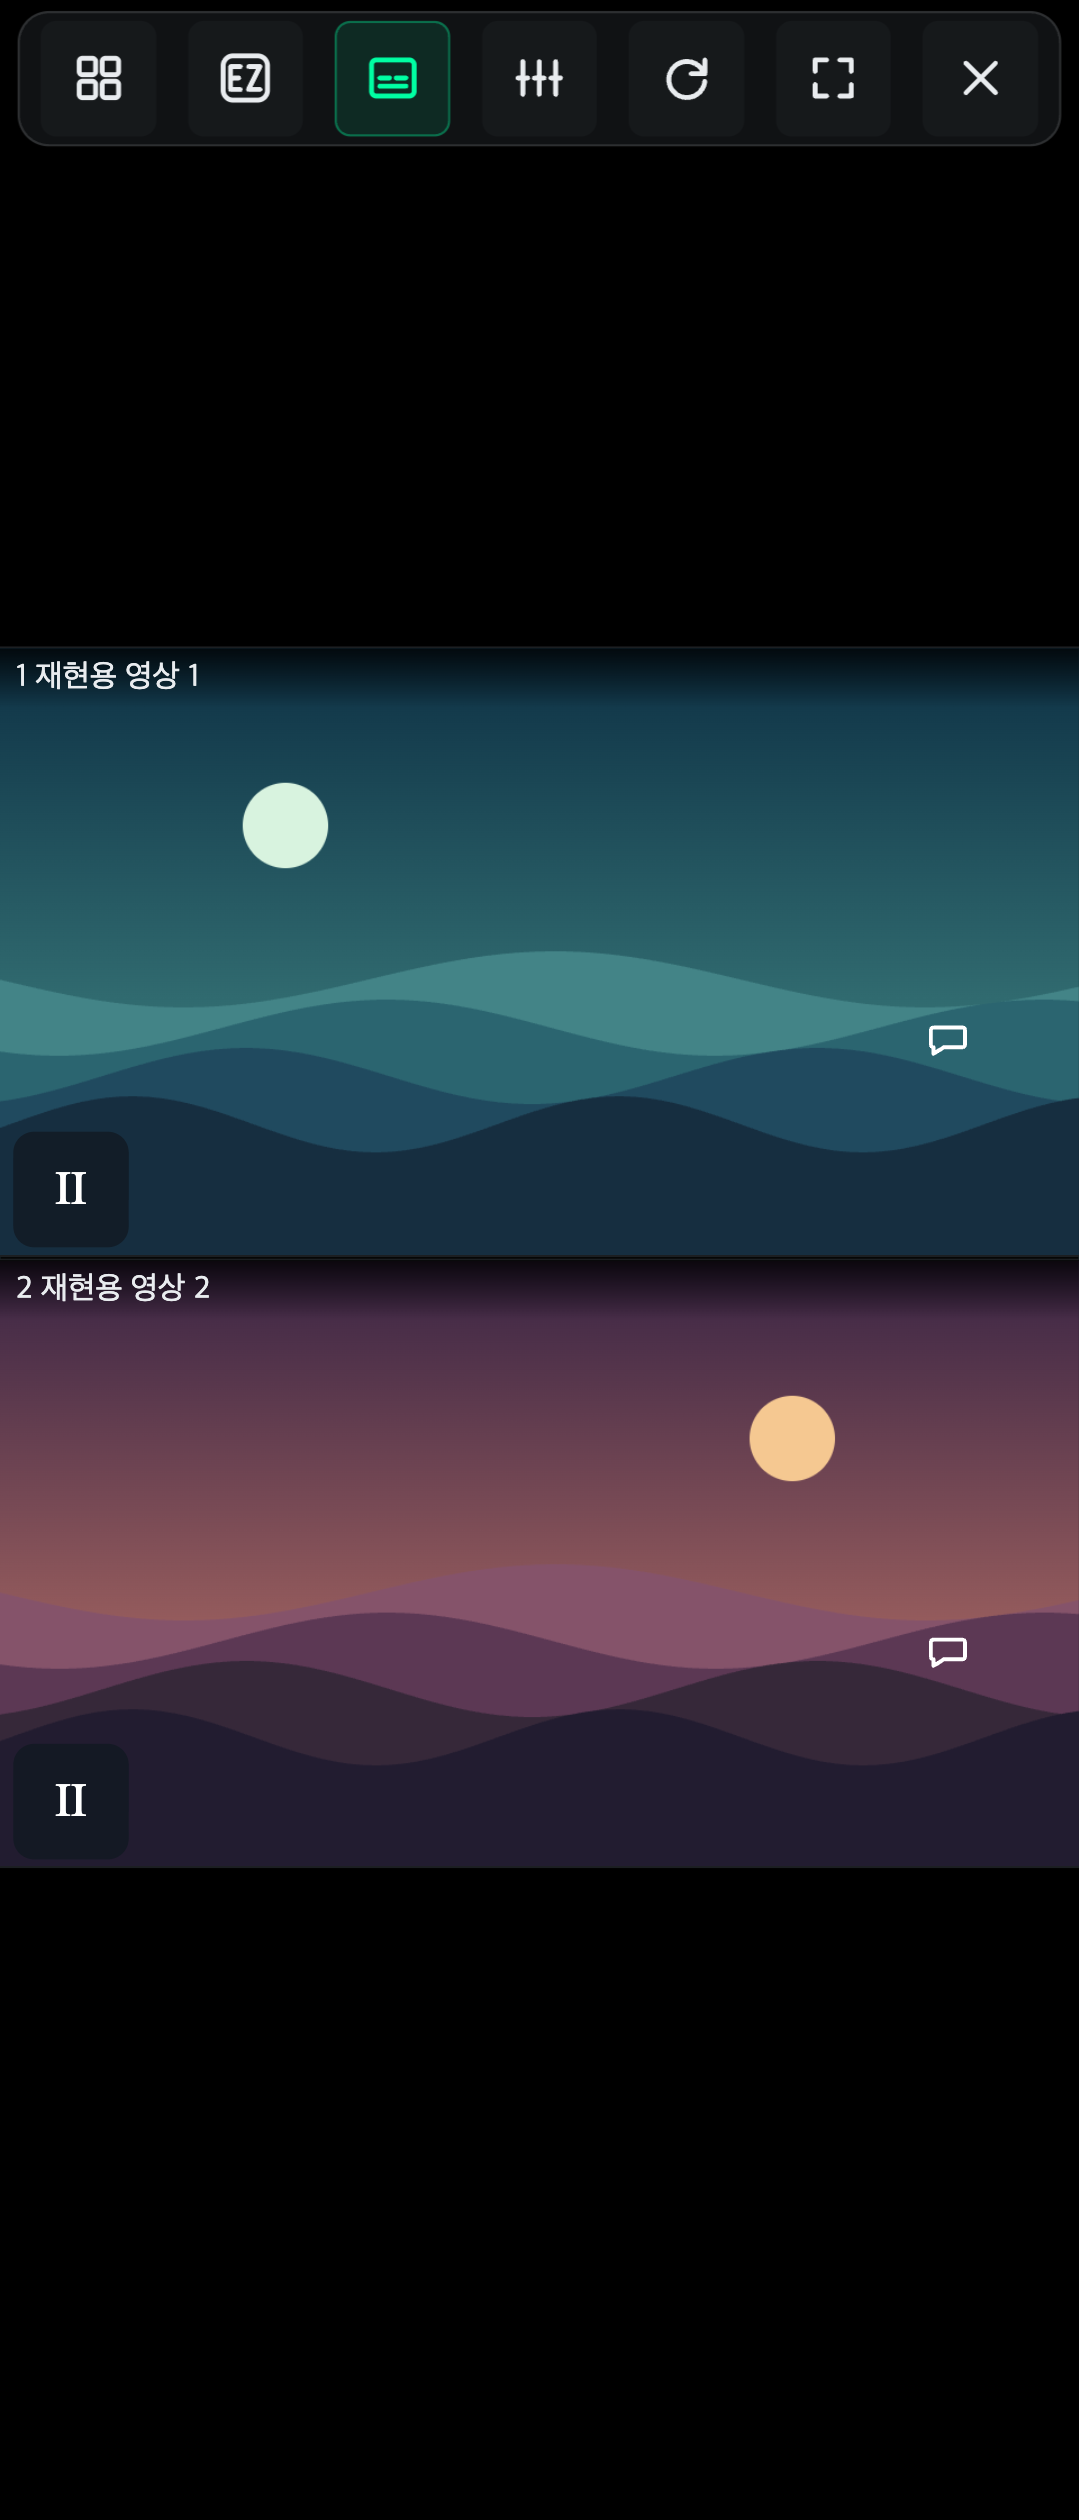
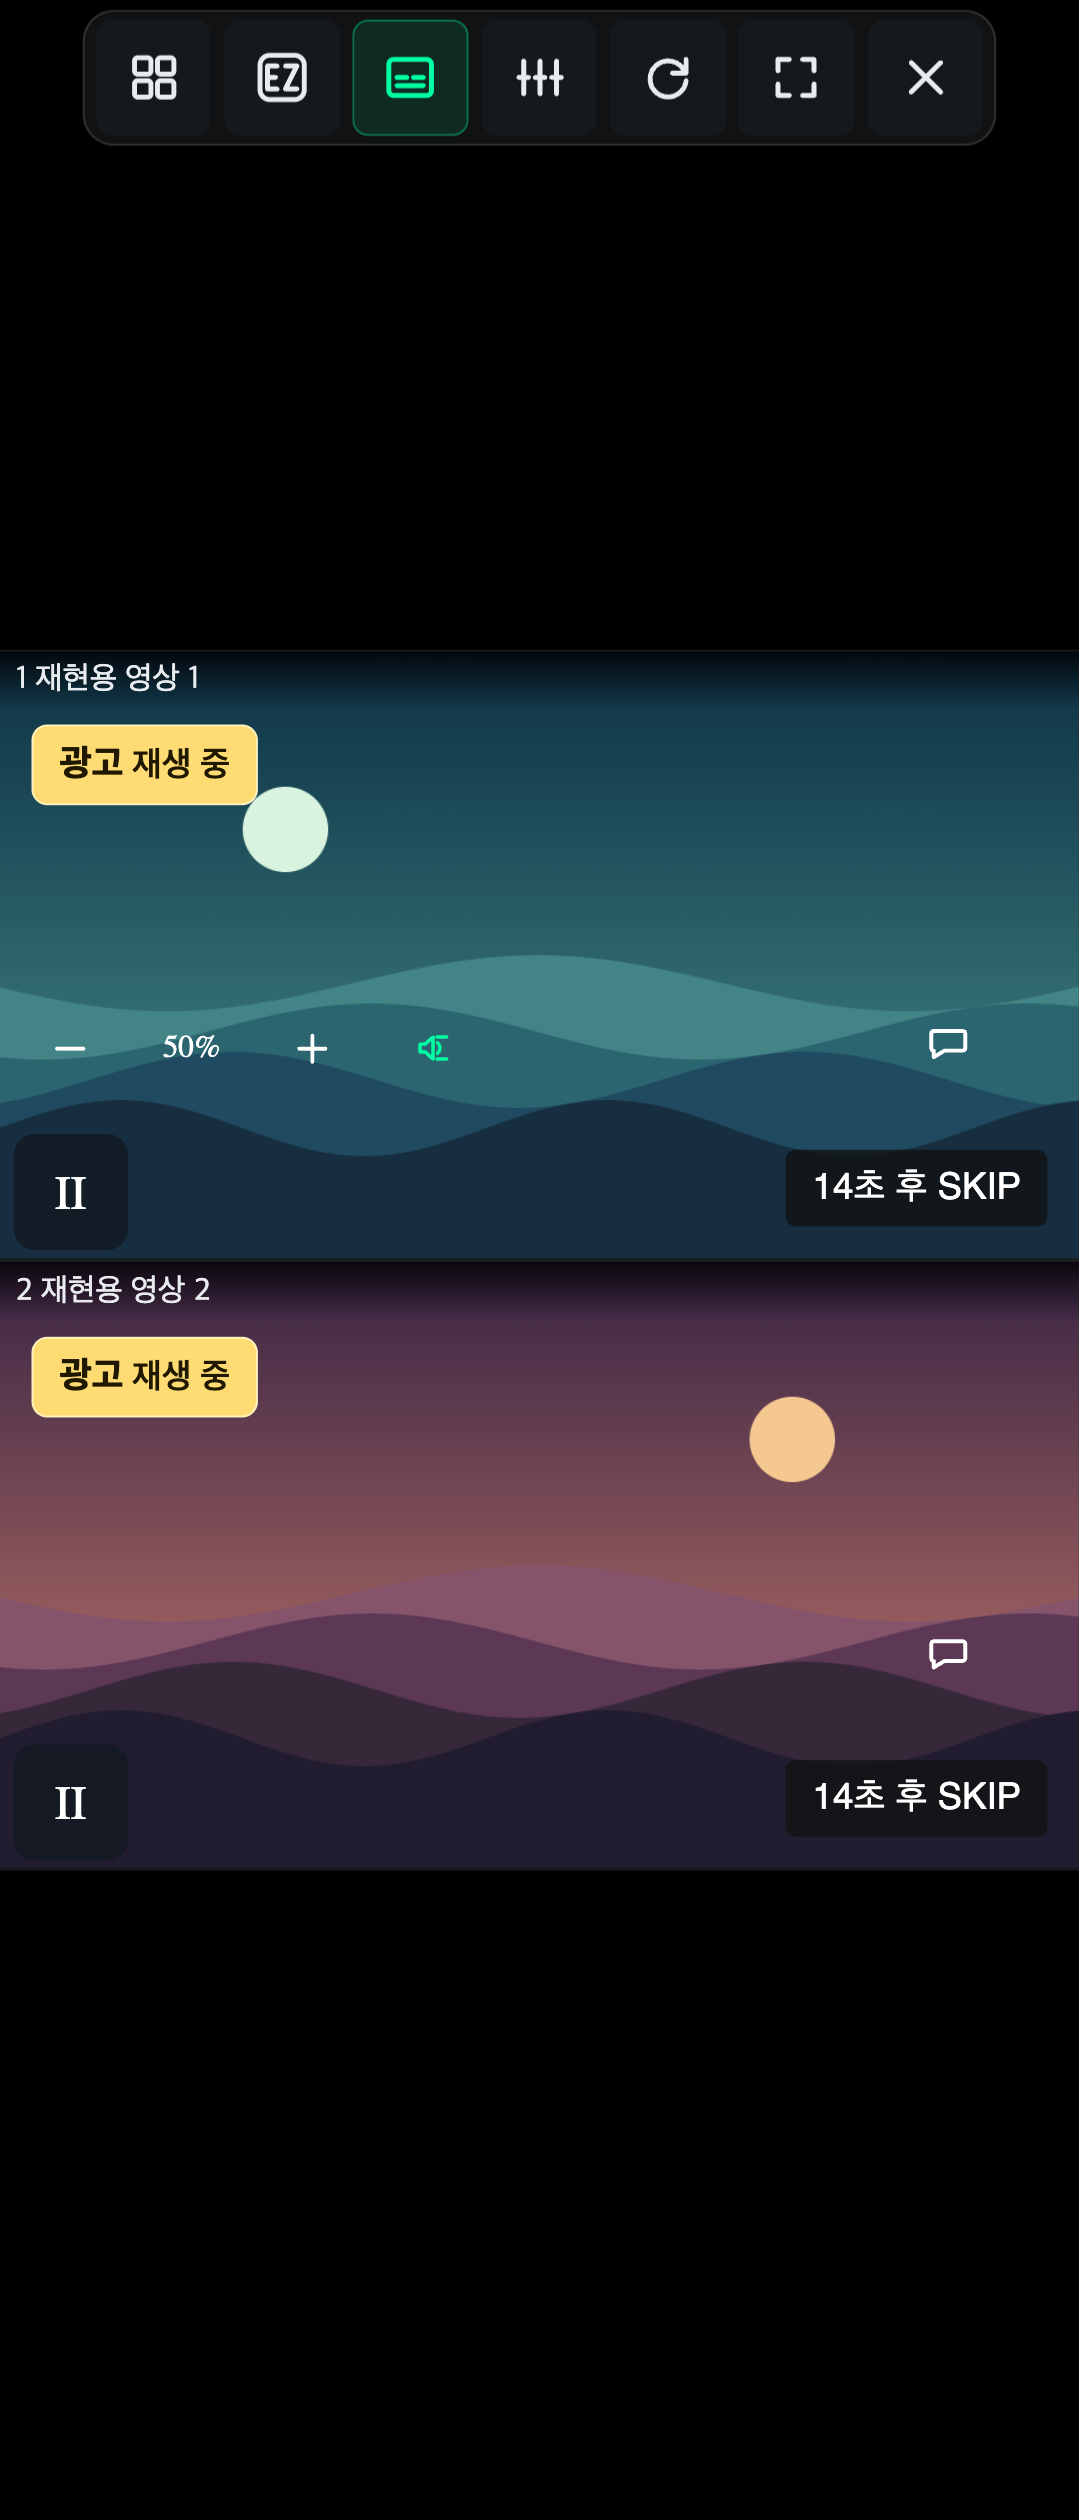
Cap Fold cover toolbar scaling at the current browser zoom

diff --git a/src/features/multiView/stageViewport.ts b/src/features/multiView/stageViewport.ts
@@ -5,22 +5,23 @@ const STAGE_BAR_COMPACT_MAX_PX = 600;
 
 export function readStageViewport() {
   const { width, height } = readViewport();
-  const screenWidth = width * (window.visualViewport?.scale ?? 1);
+  const pageScale = window.visualViewport?.scale ?? 1;
+  const screenWidth = width * pageScale;
   const layoutWidth = document.documentElement.clientWidth;
-  // Android desktop-site mode can fit a wide layout to a narrow touch screen.
-  // Base compensation on that fit so it stays constant when the user pinches.
-  const zoom =
+  const needsCompensation =
     screenWidth > 0 &&
     screenWidth < SIZE_TIERS.mobileShortSide &&
     layoutWidth > STAGE_BAR_COMPACT_MAX_PX &&
     navigator.maxTouchPoints > 0 &&
-    !window.matchMedia?.('(hover: hover)').matches
-      ? layoutWidth / screenWidth
-      : 1;
+    !window.matchMedia?.('(hover: hover)').matches;
+  // A wide layout can persist after the browser has already increased the page scale.
+  // Cap the stage zoom at the inverse of the current shrink to avoid double enlargement.
+  const zoom =
+    needsCompensation && pageScale < 1 ? Math.min(layoutWidth / screenWidth, 1 / pageScale) : 1;
   return {
     width: width / zoom,
     height: height / zoom,
     zoom,
-    compact: (layoutWidth || width) / zoom <= STAGE_BAR_COMPACT_MAX_PX,
+    compact: width / zoom <= STAGE_BAR_COMPACT_MAX_PX,
   };
 }

diff --git a/src/features/multiView/stageCss.ts b/src/features/multiView/stageCss.ts
@@ -297,15 +297,10 @@ export function buildStageCss(touchTargetPx: number, alwaysShowHeader: boolean):
   border-left: 1px solid #2a2d31;
 }
 #${OURS.multiViewStageId} .cm-stage-chat-controls output { min-width: 48px; }
-/*
-  🔴 좁은 화면에서 조작 바 1줄 압축 (사용자 보고: 3줄로 접혀 무대를 잡아먹음).
-  버튼 크기(터치 타겟)는 절대 줄이지 않는다 — 라벨 글자만 숨기고 아이콘만 남긴다.
-  간격은 오히려 넓힌다: 촘촘해 보이는 건 버튼이 커서가 아니라 간격이 부족해서다.
-  라벨을 숨겨도 버튼의 aria-label 이 그대로 접근성 이름을 맡는다 (createBar 참고).
-  laptop13(1440) 처럼 이 경계보다 넓은 화면은 그대로 라벨이 보인다.
-*/
+/* 버튼 일곱 개가 360px 화면에서도 한 줄에 들어가도록 간격과 좌우 여백을 줄인다. */
 #${OURS.multiViewStageId}[data-compact='true'] .cm-stage-bar {
-  gap: 12px;
+  gap: 5px;
+  padding-inline: 4px;
 }
 #${OURS.multiViewStageId}[data-compact='true'] .cm-stage-bar__label {
   display: none;

diff --git a/src/features/multiView/stagePresentation.test.ts b/src/features/multiView/stagePresentation.test.ts
@@ -103,17 +103,6 @@ describe('buildStageCss', () => {
     expect(css).toContain('min-width: 44px');
     expect(css).toContain('min-height: 44px');
   });
-
-  it('좁은 화면 압축 시 버튼 사이 간격을 줄이지 않는다 — 오히려 넓힌다', () => {
-    const css = buildStageCss(44, true);
-    const baseGap = Number(/\.cm-stage-bar\s*\{[^}]*gap:\s*(\d+)px/.exec(css)?.[1] ?? '0');
-    const compactBlock = css.slice(css.indexOf("[data-compact='true']"));
-    const compactGap = Number(
-      /\.cm-stage-bar\s*\{[^}]*gap:\s*(\d+)px/.exec(compactBlock)?.[1] ?? '0',
-    );
-    expect(baseGap).toBeGreaterThan(0);
-    expect(compactGap).toBeGreaterThanOrEqual(baseGap);
-  });
 });
 
 describe('sideChatWidthPx — 사이드 채팅 폭', () => {

diff --git a/screenshots/fold8.md b/screenshots/fold8.md
@@ -9,7 +9,7 @@
 - 내부 화면의 낮은 가로 비율에서는 채팅을 영상 아래에 자동 배치한다. 직접 선택한 위치와 배치별 크기가 우선한다.
 - 좁은 설정 창은 탭을 가로 스크롤하고, 멀티뷰 분할 옵션은 줄을 바꿔 표시한다.
 
-폴드8 울트라 커버의 멀티뷰는 Chromium에서 980px 데스크톱 페이지를 411px 화면에 맞춘 뒤, 재현용 영상 두 개를 재생하며 새로 캡처했다. 조작 버튼은 축소 상태에서 약 18px에서 44px로 커지고, 상단 바는 아이콘 한 줄로 표시된다. 나머지 화면은 2026-10-27 치지직 라이브에서 캡처했다.
+폴드8 울트라 커버의 멀티뷰는 Chromium에서 980px 데스크톱 페이지를 411px 화면으로 표시하고, 두 슬롯이 광고 중인 상황을 재현해 캡처했다. 같은 배율에서 세 줄로 커졌던 상단 바가 44px 터치 영역의 아이콘 한 줄로 표시된다. 360px 화면에서도 한 줄을 유지한다. 나머지 화면은 2026-10-27 치지직 라이브에서 캡처했다.
 
 | 화면 / CSS 뷰포트 | 설정 | 멀티뷰 |
 | --- | --- | --- |

diff --git a/Docs/CHANGELOG.md b/Docs/CHANGELOG.md
@@ -4,6 +4,8 @@
 
 - **자동 전체화면 제거** — 재생 시작, 멀티뷰 진입, 앱 복귀 때 자동으로 전체화면을 요청하던 동작을 제거했다. 이전의 재생 시작 ‘전체화면’ 설정은 ‘기본’으로 읽는다. 전체화면 버튼과 더블 클릭·두 번 터치를 사용할 수 있다.
 
+- **폴드 커버 멀티뷰 상단 바 크기 수정** — 데스크톱 페이지의 현재 축소 배율만 보정한다. 360px 이상 커버 화면에서 터치 영역을 약 44px로 유지하면서 버튼 일곱 개를 한 줄에 표시한다.
+
 ### 2026-11-14
 
 - **멀티뷰 BETA 표시 제거** — 멀티 버튼·구성 창·상단 바·사이드 채팅의 뱃지를 제거했다.
